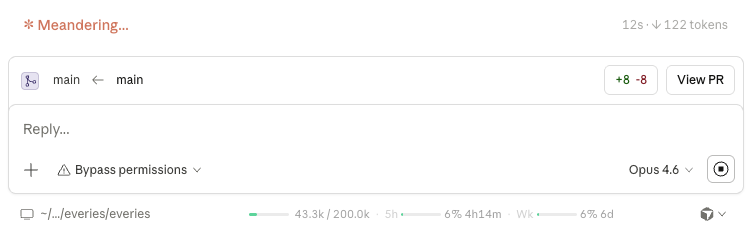
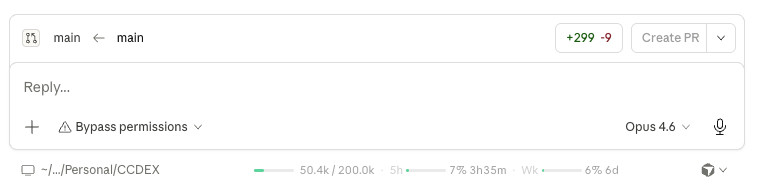
Update docs with internal mechanism details and screenshot
- Expand "How It Works" in both CLAUDE.md and README.md with detailed
  explanation of IPC token tracking and same-origin rate limit API
- Highlight why no session key extraction is needed (renderer runs
  inside claude.ai origin, cookies sent automatically)
- Update screenshot

diff --git a/CLAUDE.md b/CLAUDE.md
@@ -24,17 +24,47 @@ Light theme design, blends with the existing footer UI.
 
 ## How It Works
 
-1. **context-indicator.js** is appended to `.vite/build/mainView.js` inside `app.asar`
-2. The preload script has access to `require('electron').ipcRenderer` and the DOM
-3. **Context tokens**: Listens on the LocalSessions IPC channel for assistant messages containing `usage` data
-4. **Rate limits**: Fetches `GET /api/organizations/{orgId}/usage` directly (same-origin, cookie auth automatic). The org ID is read from the `lastActiveOrg` cookie
-5. The indicator is injected into the footer bar's `flex-1` spacer element (between path display and action buttons)
+**context-indicator.js** is appended to `.vite/build/mainView.js` inside `app.asar`. Since this is a preload script, it has access to both `require('electron').ipcRenderer` and the DOM.
 
-### Rate Limit API
+The indicator displays two types of data, each obtained through a different mechanism:
 
-The renderer loads from `https://claude.ai/claude-code-desktop/...`, so fetching `/api/organizations/{orgId}/usage` is a same-origin request — session cookies are sent automatically. No external scripts, no Keychain access, no manual token setup.
+### 1. Context Token Usage (via IPC)
 
-Response format:
+The script listens on the Electron IPC channel for `LocalSessions` events:
+
+```
+Channel: $eipc_message$_<uuid>_$_claude.web_$_LocalSessions_$_onEvent
+```
+
+When Claude Code sends an assistant response, the event payload includes a `usage` object:
+
+```json
+{
+  "input_tokens": 12345,
+  "output_tokens": 678,
+  "cache_creation_input_tokens": 0,
+  "cache_read_input_tokens": 9000
+}
+```
+
+The script tracks per-session token counts (input + cache + output) and displays them against the model's context limit (currently hardcoded at 200k for all models).
+
+Session lifecycle events (`session_updated`, `stopped`, `archived`, `deleted`) are also handled to keep the display in sync.
+
+### 2. Rate Limit Usage (via Same-Origin API)
+
+This is the key insight: **the Code tab's renderer process loads from `https://claude.ai/claude-code-desktop/...`**, which means any `fetch()` call to `/api/...` is a **same-origin request**. The browser automatically includes the `sessionKey` cookie — no manual token extraction, no external scripts, no Keychain access needed.
+
+External tools (e.g., standalone scripts) would need to manually obtain and pass the `sessionKey` cookie. Because our script runs *inside* the Electron renderer, authentication is free.
+
+**How the fetch works:**
+
+1. Read the org ID from the `lastActiveOrg` cookie: `document.cookie.match(/lastActiveOrg=([^;]+)/)`
+2. Fetch `GET /api/organizations/{orgId}/usage` — session cookies are sent automatically
+3. Parse the response and update the indicator
+
+**Response format:**
+
 ```json
 {
   "five_hour": { "utilization": 0.0, "resets_at": "2026-04-03T14:00:01+00:00" },
@@ -43,7 +73,17 @@ Response format:
 }
 ```
 
-`utilization` is 0–100 (percentage). Fetched on startup (3s delay), every 60s, and on `rate_limit_event` IPC events.
+`utilization` is 0–100 (percentage).
+
+**Fetch triggers:**
+- On startup (3s delay to wait for DOM)
+- Every 60s (polling interval)
+- On `rate_limit_event` IPC events (immediate refresh when rate-limited)
+- Throttled to at most once per 30s to avoid excessive requests
+
+### 3. UI Injection
+
+The indicator is injected into the footer bar's `flex-1` spacer element (between the path display and action buttons). A `MutationObserver` watches for DOM rebuilds (tab switches, navigation) and re-injects as needed.
 
 ## Key Technical Facts
 

diff --git a/README.md b/README.md
@@ -16,11 +16,23 @@ Color coding: green (< 50%) / amber (50–80%) / red (> 80%).
 
 ## How It Works
 
-CCDEX patches Claude Desktop's Electron app to inject a small script into the preload layer:
+CCDEX patches Claude Desktop's Electron app to inject a small script into the preload layer. The script collects two types of data:
 
-1. **Context tokens** — Monitors IPC events from `LocalSessions` for assistant message `usage` data
-2. **Rate limits** — Fetches `/api/organizations/{orgId}/usage` directly from the renderer (same-origin with `claude.ai`, so session cookies are sent automatically — no API keys, no Keychain, no manual setup)
-3. **UI** — Injects into the footer bar's spacer element using MutationObserver for resilience across tab switches
+### Context Token Usage
+
+The Code tab communicates with the backend via Electron IPC. The script listens on the `LocalSessions` IPC channel for assistant message events, which include a `usage` object with `input_tokens`, `output_tokens`, and cache token counts. These are tracked per-session and displayed against the model's context limit.
+
+### Rate Limit Usage
+
+The Code tab's renderer loads from `https://claude.ai/claude-code-desktop/...`. This means `fetch('/api/...')` calls are **same-origin requests** — the browser automatically includes the `sessionKey` cookie for authentication. No API keys, no Keychain access, no manual token extraction needed.
+
+The script reads the org ID from the `lastActiveOrg` cookie, then fetches `GET /api/organizations/{orgId}/usage` which returns utilization percentages (0–100) and reset timestamps for both 5-hour and 7-day windows.
+
+> **Why this matters:** External tools that want rate limit data must manually extract the `sessionKey` cookie from the browser. Because CCDEX runs *inside* the renderer process, authentication is automatic and zero-config.
+
+### UI Injection
+
+The indicator is injected into the footer bar's `flex-1` spacer element (between the path display and action buttons). A `MutationObserver` re-injects on DOM rebuilds caused by tab switches or navigation.
 
 ## Requirements
 
